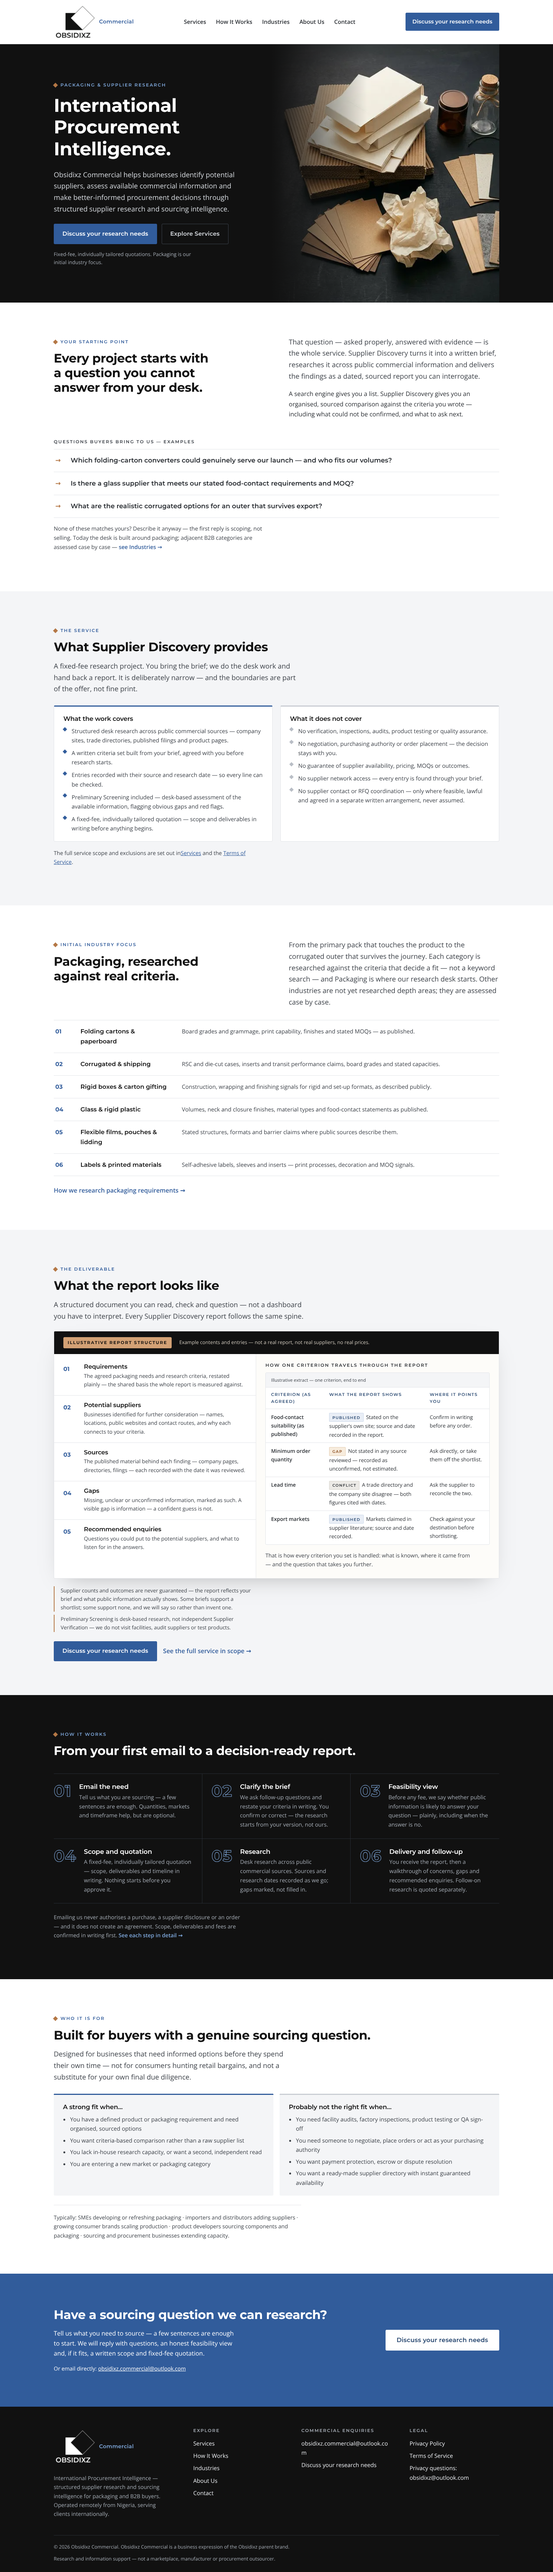
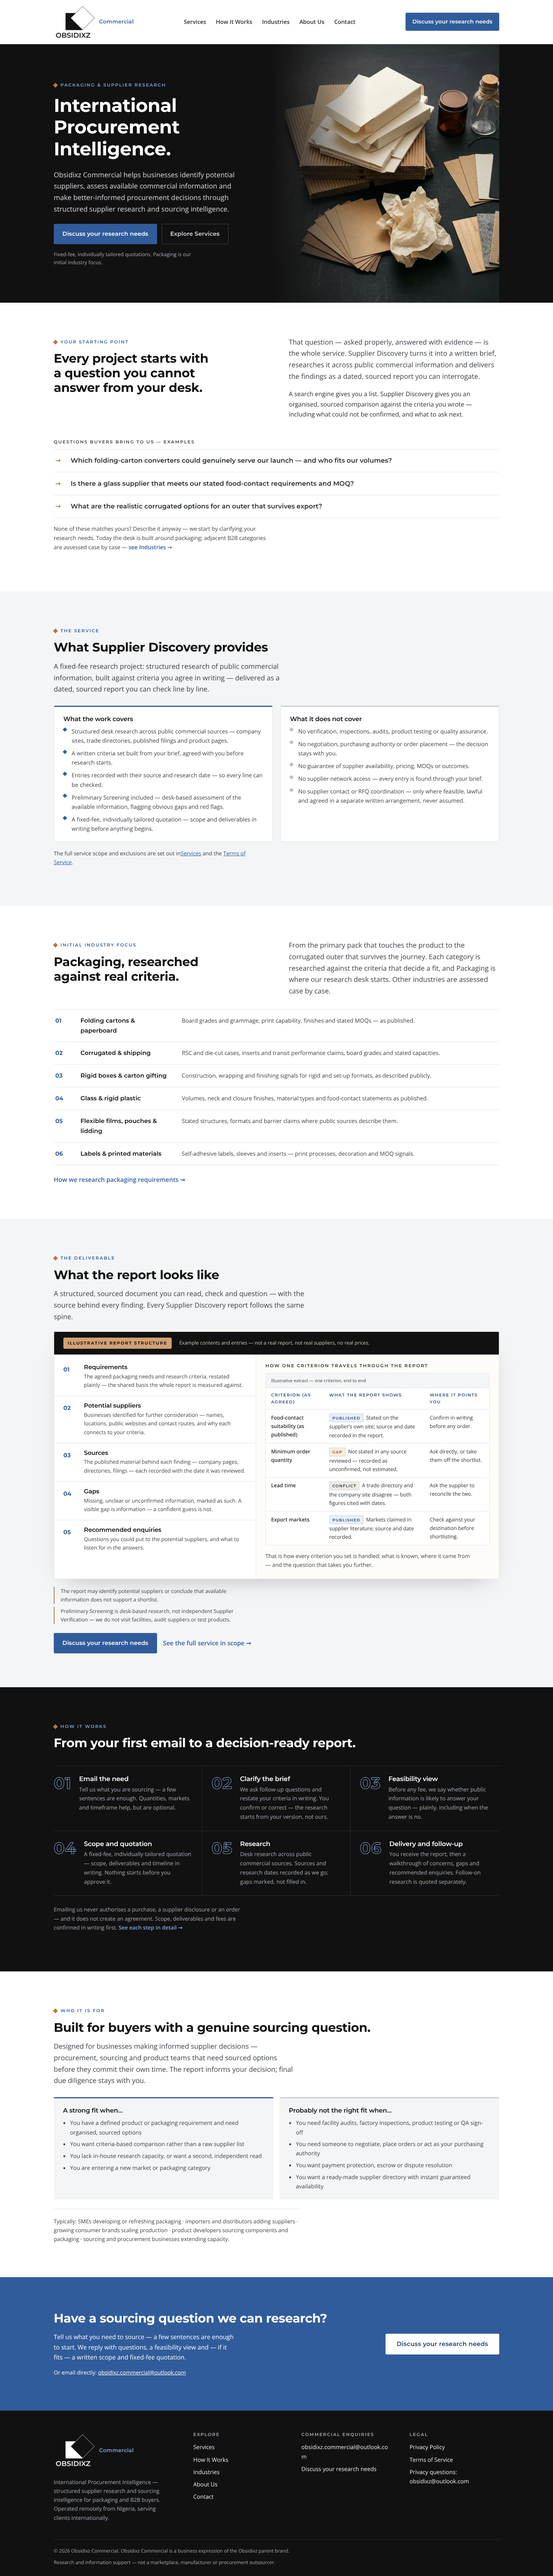
Final cleanup: consolidate defensive copy, finish contact copy, fix caption
Homepage: replace defensive ceremony copy with direct positive statements
(shortlist sentence, 'we start by clarifying your research needs', fixed-fee
scope explanation, sourced-document description, positive audience framing);
limitations remain once each; scope summary and Services/Terms links kept once.

Contact: remove 'emerging service'/'24/7 desk'/'merits' commentary and the
email-delivery preamble; invitation and email instructions consolidated; no
response-time promise; mailto literal, visible address, copy behaviour and
privacy link unchanged (re-verified; no defects found).

Illustrative extract caption now renders full-width with natural wrapping at
320/390 px and desktop (.criteria-table-wrap scroll-margin-top: 8rem). No
forms, integrations, routes, metadata or Terms/Privacy changes.

diff --git a/src/styles/global.css b/src/styles/global.css
@@ -1527,6 +1527,7 @@ a {
 }
 
 .criteria-table-wrap {
+  scroll-margin-top: 8rem;
   overflow-x: auto;
   border: 1px solid var(--line);
   border-radius: var(--radius);
@@ -1541,7 +1542,10 @@ a {
 }
 
 .criteria-table caption {
+  caption-side: top;
   text-align: left;
+  width: 100%;
+  box-sizing: border-box;
   padding: 0.55rem 0.85rem;
   font-size: 0.72rem;
   color: var(--ink);
@@ -1609,7 +1613,7 @@ a {
   border-color: #d8d4cc;
 }
 
-/* Q3 — honesty notes (below the exhibit) */
+/* Q3 — notes below the exhibit */
 .report-notes {
   display: grid;
   gap: 0.5rem;
@@ -1663,6 +1667,13 @@ a {
     min-width: 0;
     display: block;
     font-size: 0.85rem;
+  }
+  .criteria-table caption {
+    display: block;
+    width: 100%;
+    overflow-wrap: break-word;
+    white-space: normal;
+    padding: 0.65rem 0.85rem;
   }
   .criteria-table thead {
     position: absolute;

diff --git a/PROJECT_STATUS.md b/PROJECT_STATUS.md
@@ -1,58 +1,62 @@
 # PROJECT STATUS — Obsidixz Commercial
 
-**Date:** 2026-11-10 · **Branch:** `arena/7c77ed96-obsidixz-commercial` (PR open, not merged) · **Repo:** `Richard-Olasehinde/obsidixz-commercial`
-**Date context:** all dates 2026-11-10 UTC unless stated otherwise.
+**Date:** 2026-11-10 · **Branch:** `arena/00a776ed-obsidixz-commercial` (PR open, not merged) · **Repo:** `Richard-Olasehinde/obsidixz-commercial`
+**Date context:** all dates 2026-11-10 UTC.
 
-## Revision under review
+## Revision under review — final cleanup pass
 
-Buyer-journey redesign of the homepage (see `DECISION_LOG.md` 33–37): the page is
-organised around the buyer's four questions, in order — sourcing question → Supplier
-Discovery scope/boundaries → the report (tangible, labelled *Illustrative report
-structure*) → the discussion-to-report process. The packaging section is structured rows
-with per-category research detail; the notebook/workbench photograph was removed from
-the homepage (retained on /industries). CTAs site-wide now read "Discuss your research
-needs" (discussion, not purchase). Approved scope, palette, Montserrat/Open Sans, logo
-lockup, enquiry subject, mailto literal, copy-button behaviour and routes are unchanged.
+Tightly scoped polish over the merged redesign (PR #3, `5116058`). Preserves the design,
+packaging hero, logo lockup, palette, typography, homepage structure and report
+presentation. Changes (see `DECISION_LOG.md` 38):
+
+- Homepage copy consolidated: defensive/ceremony phrasing removed; limitations retained
+  once each; scope summary kept once with Services/Terms links.
+- Contact page: "emerging service operated by an individual", "24/7 desk", "read and
+  considered on its merits" and delivery/receipt commentary removed; invitation and
+  email instructions consolidated per the brief. No response-time promise introduced.
+- Illustrative extract caption now renders full-width with natural wrapping at 320/390 px
+  (stacked layout) and desktop; `.criteria-table-wrap` got `scroll-margin-top: 8rem`.
+- Copy behaviour re-verified (see status 1); no defects found — no behaviour changes.
+
+Live site currently serves `5116058` (the redesign). **This cleanup is not deployed.**
 
 ## Stage results
 
 | Stage | Status | Evidence |
 |---|---|---|
 | 1. Foundation | **PASS** | Astro 7.3.8, 8 routes + 404, authentic assets, self-hosted fonts (unchanged) |
-| 2. Homepage redesign | **PASS** | Served production build inspected at 1440/390; screenshots in `verification/screenshots/` (after) vs `verification/baseline/` (genuine before, same build at `ae0f6cf`) |
-| 3. Interior pages | **PASS** | CTA wording only; routes build and render; Services/How/Industries/About/Contact/Privacy/Terms copy unchanged in substance |
-| 4. Navigation & contact | **PASS** | Menu isolation/Escape/focus-return; copy success + denial + legacy fallback; no-JS static nav; re-verified this revision |
-| 5. Responsive/a11y polish | **PASS** | 5 widths × 10 routes (incl. expected-404) — no overflow, no console errors, no failed requests, no broken visible images; criteria table stacks on <48rem with labelled cells; 200% root font-size clean |
-| 6. Discoverability | **PASS** | Unique titles/descriptions (home description rewritten for the redesign; contact title updated), canonicals, OG/Twitter, favicon set, sitemap (unchanged) |
-| 7. Rendered verification | **PASS** | Served production build under headless Chromium: `check` 53/53, `interact` 5/5, `nojs` 2/2, `verify` all-pass, `astro check` 0 errors (5 pre-existing hints) |
-| 8. Delivery | **PARTIAL** | HTTPS **independently confirmed working by the founder (2026-11-10)**. Formal live-verification pass on all routes over HTTPS not yet run. Feature branch never deploys; `main` alone deploys after founder merge authorisation |
+| 2. Final-cleanup copy | **PASS** | Homepage + contact rebuilt and inspected at 1440/768/390/320 px; before/after in `verification/baseline-cleanup/` vs `verification/screenshots/` |
+| 3. Interior pages | **PASS** | Copy untouched except contact; routes build and render |
+| 4. Contact behaviour | **PASS** | Clipboard success asserts actual clipboard contents; denial reports failure truthfully; legacy fallback passes; exact subject + mailto literal unchanged; no-JS path intact |
+| 5. Responsive/a11y polish | **PASS** | 5 widths × 10 routes (incl. expected-404) — no overflow, no console errors, no failed requests, no broken visible images; caption verified 320/390/1440; 200% root font-size clean |
+| 6. Discoverability | **PASS** | Titles/descriptions/canonicals/OG/sitemap unchanged (no metadata drift) |
+| 7. Rendered verification | **PASS** | Served production build under headless Chromium: `check` 53/53, `interact` 5/5 (incl. clipboard assertions), `nojs` 2/2, `verify` all-pass, `astro check` 0 errors (5 pre-existing hints) |
+| 8. Delivery | **LIVE (redesign) / NOT DEPLOYED (cleanup)** | Redesign deployed from `main` via PR #3 merge; HTTPS independently confirmed working by the founder (2026-11-10). This cleanup reaches `main` only after founder review and merge authorisation |
 
 ## Required delivery statuses
 
-1. **Code implementation & tests run — DONE.** `npm run build` ✓, `npm run check`
-   (0 errors) ✓, `npm run verify` ✓, rendered sweep 53/53 ✓, interaction suite ✓,
-   no-JS suite ✓, 200% root font-size pass ✓, screenshots refreshed ✓. Not run:
-   Lighthouse/axe (not available in this environment).
+1. **Code implementation & tests run — DONE.** Build ✓, `astro check` 0 errors ✓,
+   `npm run verify` ✓, rendered sweep 53/53 ✓, interaction suite (clipboard success with
+   content assertion, denial, legacy fallback, menu isolation/Escape/focus-return) ✓,
+   no-JS ✓, 200% root font-size ✓, screenshots refreshed (incl. new 320/390 caption
+   shots) ✓. Not run: Lighthouse/axe (not available in this environment).
 2. **Visual acceptance — PASS, founder review pending.** Evidence:
-   `verification/screenshots/` (after, this revision) vs `verification/baseline/`
-   (before, same build at `ae0f6cf`): desktop full page, mobile full page, hero/header,
-   packaging rows, report exhibit (desktop + mobile), services, how-it-works, contact
-   (1440/390), expanded mobile menu. No founder approval has been given or implied.
-3. **Deployment & domain verification — HTTPS CONFIRMED WORKING (founder-confirmed
-   2026-11-10).** The founder reports the HTTPS destination independently confirmed
-   working on 10 November 2026. This session did not re-verify the live domain; the
-   record is the founder's report. A full live HTTPS pass (routes, assets, canonicals,
-   headers) remains worthwhile after merge and is recorded as outstanding here until run.
-   The redesign itself is **not deployed**: pushes from this branch run CI but never
-   deploy; `main` deploys only after the founder merges.
+   `verification/screenshots/` (after) vs `verification/baseline-cleanup/` (before, build
+   at `5116058`): homepage full page (desktop/mobile), illustrative extract caption (320/
+   390/1440), contact panels (email instructions + invitation). No founder approval has
+   been given or implied.
+3. **Deployment & domain verification — LIVE.** The redesign is served from `main`
+   (`5116058`); HTTPS **independently confirmed working by the founder 2026-11-10**.
+   A live HTTPS verification pass on all routes remains worthwhile after this cleanup
+   merges; record results here. This cleanup's merge path: founder merge → `main`
+   workflow deploys → live verification.
 4. **Commercial email receipt/reply — NOT DONE.** A real message to and reply from
    `obsidixz.commercial@outlook.com` has not been evidenced. Do not cite mailto as proof.
 
 ## Outstanding items (owner)
 
-- Founder: review the PR preview (before/after screenshots in the PR), then merge or
-  request changes. Merge = the only publish path (`main`-gated workflow).
+- Founder: review the cleanup PR (screenshots embedded) and merge or request changes.
 - Founder/tester: send a real enquiry; record receipt and reply here.
-- Founder: run or authorise the live HTTPS verification pass post-merge (routes, sitemap,
-  sitemap-index.xml, robots.txt, canonicals) and record results here.
-- Founder: visual/brand sign-off on the redesigned homepage.
+- Founder (or any session post-merge): live HTTPS verification pass (routes, sitemap,
+  canonicals) and record results here.
+- Founder: visual/brand sign-off.

diff --git a/CONTINUATION.md b/CONTINUATION.md
@@ -4,19 +4,18 @@ _Pick-up guide. Read this first if the session is lost._
 
 ## State in one line
 
-Buyer-journey homepage redesign (question → Supplier Discovery scope → tangible
-illustrative report → discussion-to-report process; CTAs site-wide read "Discuss your
-research needs") on branch `arena/7c77ed96-obsidixz-commercial`, open as a PR against
-`main`. **Not merged, not deployed — the preview the founder reviews is this branch's
-served production build (or the CI `dist` artifact); `main` alone deploys.** HTTPS was
-independently confirmed working by the founder on 2026-11-10 (record is the founder's
-report, not a sandbox re-verification). Commercial email receipt/reply remains
-unevidenced. Visual/brand sign-off pending.
+Final cleanup pass on top of the merged redesign (PR #3 merged as `5116058`; live site
+serves it; HTTPS independently confirmed working by the founder 2026-11-10). Branch
+`arena/00a776ed-obsidixz-commercial` carries the cleanup PR against `main`: homepage/contact
+copy consolidation, illustrative-extract caption fix (full-width, natural wrap at
+320/390px) and copy-behaviour re-verification. **Not merged, not deployed — `main` alone
+deploys after founder review and merge authorisation.** Commercial email receipt/reply
+remains unevidenced. Visual/brand sign-off pending.
 
 ## Repo & branch
 
 - Remote: `https://github.com/Richard-Olasehinde/obsidixz-commercial.git`
-- Working branch: `arena/7c77ed96-obsidixz-commercial` (do not rename; Arena tracks sessions by branch)
+- Working branch: `arena/00a776ed-obsidixz-commercial` (do not rename; Arena tracks sessions by branch)
 - Reproduce locally:
 
 ```bash
@@ -35,10 +34,10 @@ npm run preview
 | `npm run build` | Astro static build → `dist/` (9 pages) | PASS |
 | `npm run check` | `@astrojs/check` type/content | PASS, 0 errors (5 pre-existing hints) |
 | `npm run verify` | Parse-based checks on `dist/` | PASS |
-| `npm run test:render` | served `dist/`: 5 widths × 10 routes + 200% root font-size | PASS (53/53) |
+| | `npm run test:render` | served `dist/`: 5 widths × 10 routes + 200% root font-size | PASS (53/53) |
 | `node scripts/rendered-checks.mjs interact` | menu open/Escape/focus-return/isolation/resize; copy success + denial + legacy fallback | PASS (5/5) |
 | `node scripts/rendered-checks.mjs nojs` | JS disabled: static nav, exact mailto, no dialog semantics | PASS (2/2) |
-| `node scripts/rendered-checks.mjs shots` | screenshot set → `verification/screenshots/` (incl. new `home-packaging-rows`, `home-report-exhibit`; `home-lower-editorial` renamed) | captured |
+| `node scripts/rendered-checks.mjs shots` | screenshot set → `verification/screenshots/` (incl. `home-packaging-rows`, `home-report-exhibit`, `home-report-caption-320x700`, `home-report-caption-390x844`) | captured |
 
 Browser checks need the preview running (`npm run preview`, or `npx astro preview
 --port 4321`), or set `BASE_URL`. All browser-test dependencies are declared
@@ -79,11 +78,12 @@ report stale results — rebuild (`npm run build`) before trusting any served-pa
 
 ## Evidence
 
-`verification/screenshots/` — refreshed this revision (desktop hero/header, full desktop
-page, packaging rows, report exhibit, mobile full page, menu, services, how-it-works,
-contact). `verification/baseline/` — genuine before-renders captured from the served
-build at `ae0f6cf` before any edits (desktop hero/header, full desktop, mobile full page,
-lower-editorial section, report-panel close-up).
+`verification/screenshots/` — refreshed this revision (hero/header, full desktop page,
+packaging rows, report exhibit, illustrative-extract caption at 320/390 px, contact
+panels, mobile full page, menu, services, how-it-works, contact).
+`verification/baseline/` — before-renders for the homepage redesign (build at `ae0f6cf`).
+`verification/baseline-cleanup/` — before-renders for this cleanup (build at `5116058`):
+caption at 320/390/1440, contact panels, homepage full page (desktop/mobile).
 
 ## Recovery instructions
 
@@ -99,8 +99,8 @@ lower-editorial section, report-panel close-up).
 
 ## Remaining work, in order
 
-1. Founder: review the PR (screenshots before/after inside it); request changes or
-   authorise merge. Merge is the only publish path (deploy gated to `main`).
+1. Founder: review the cleanup PR (screenshots before/after inside it); request changes
+   or authorise merge. Merge is the only publish path (deploy gated to `main`).
 2. Founder/tester: send a real enquiry to `obsidixz.commercial@outlook.com`; confirm
    receipt and a reply from that account; record both in `PROJECT_STATUS.md`.
 3. Founder or any session post-merge: run the live HTTPS verification pass (all 8 routes

diff --git a/DECISION_LOG.md b/DECISION_LOG.md
@@ -205,3 +205,33 @@ All decisions 2026-11-09 unless dated.
     (no overflow/console errors/failed requests/broken images), interaction suite
     (menu isolation/Escape/focus-return, clipboard success/denial/legacy fallback),
     no-JS suite — all PASS; Lighthouse/axe still not run (not available here).
+
+38. **Final cleanup pass (2026-11-10, fifth pass) — defensive copy consolidated; contact
+    invitation simplified; illustrative caption fixed; copy behaviour verified.** Homepage:
+    "Some briefs support a shortlist; some support none, and we will say so rather than
+    invent one" → "The report may identify potential suppliers or conclude that available
+    information does not support a shortlist."; "the first reply is scoping, not selling"
+    → "we start by clarifying your research needs."; "It is deliberately narrow — and the
+    boundaries are part of the offer, not fine print" → a direct fixed-fee explanation of
+    the research and report; "not a dashboard you have to interpret" → a positive sourced
+    document description; "not for consumers hunting retail bargains" removed — the
+    audience is described positively and the due-diligence caveat is kept; "an honest
+    feasibility view" → "a feasibility view"; the search-engine aside in the packaging
+    lede removed. One concise scope summary and the Services/Terms links remain; material
+    limitations remain once each (scope panels, report notes, process note). Contact page:
+    "an emerging service operated by an individual", "24/7 desk", and "read and considered
+    on its merits" removed → "Questions about scope, quotations, industries or the
+    research process are welcome. Email us to discuss what you need."; the two email
+    preamble paragraphs consolidated to one; delivery/receipt commentary removed; no
+    response-time promise introduced; mailto literal, visible selectable address, email
+    action, manual fallback and privacy link unchanged. Illustrative extract caption now
+    renders full-width in the stacked (<48rem) layout (display:block; width:100%) and in
+    the desktop bar (width:100%; caption-side:top); `.criteria-table-wrap` carries
+    scroll-margin-top:8rem so scroll/fragment targeting lands it below the sticky header;
+    verified at 320/390/1440 px with no horizontal overflow. Rendered-checks extended
+    with 320px and 390px caption shots and a `block` option for the screenshot helper —
+    nothing weakened; verify.mjs assertions unchanged. Copy behaviour itself was
+    re-verified rather than rewritten: the clipboard success path asserts the clipboard
+    actually contains `obsidixz.commercial@outlook.com`, the denial path reports failure
+    truthfully (isError), and the legacy fallback passes — no defects found, no
+    behaviour changes made.

diff --git a/PROJECT_STRUCTURE.md b/PROJECT_STRUCTURE.md
@@ -69,18 +69,30 @@
    │  ├─ home-desktop-full-1440.png
    │  ├─ home-packaging-rows-1440x900.png   # replaces home-lower-editorial (renamed)
    │  ├─ home-report-exhibit-1440x900.png
+   │  ├─ home-report-caption-320x700.png
+   │  ├─ home-report-caption-390x844.png
    │  ├─ home-mobile-390x844.png
    │  ├─ mobile-menu-expanded-390x844.png
    │  ├─ services-desktop-1440x900.png
    │  ├─ how-it-works-desktop-1440x900.png
    │  ├─ contact-desktop-1440x900.png
-   │  └─ contact-mobile-390x844.png
-   └─ baseline/                # genuine before-renders (build at ae0f6cf, captured pre-edit)
-      ├─ home-desktop-header-hero-1440x900.png
-      ├─ home-desktop-full-1440.png
-      ├─ home-lower-editorial-1440x900.png
-      ├─ home-mobile-390x844.png
-      ├─ home-report-before-1440x900.png
+   │  ├─ contact-mobile-390x844.png
+   │  ├─ contact-email-panel-after-1440x900.png
+   │  └─ contact-questions-panel-after-1440x900.png
+   ├─ baseline/                # redesign before-renders (build at ae0f6cf, captured pre-edit)
+   │  ├─ home-desktop-header-hero-1440x900.png
+   │  ├─ home-desktop-full-1440.png
+   │  ├─ home-lower-editorial-1440x900.png
+   │  ├─ home-mobile-390x844.png
+   │  └─ home-report-before-1440x900.png
+   └─ baseline-cleanup/        # cleanup before-renders (build at 5116058, pre-edit)
+      ├─ home-report-caption-before-320x700.png
+      ├─ home-report-caption-before-390x844.png
+      ├─ home-report-caption-before-1440x900.png
+      ├─ contact-email-panel-before-1440x900.png
+      ├─ contact-questions-panel-before-1440x900.png
+      ├─ home-desktop-full-before.png
+      └─ home-mobile-full-before.png
 ```
 
 ## Rendered output (dist/)

diff --git a/README.md b/README.md
@@ -66,7 +66,7 @@ sandbox NSPR/NSS procedure.
 - 200% root font-size pass (text-size simulation, not browser zoom) ✓
 - Interaction suite (menu isolation/focus return, copy success/denial/fallback) ✓ · no-JS suite ✓
 - Browser screenshots in `verification/screenshots/` (identified in `PROJECT_STATUS.md`);
-  genuine before-renders for the homepage redesign live in `verification/baseline/`
+  before-renders live in `verification/baseline/` (redesign) and `verification/baseline-cleanup/` (final cleanup)
 
 ## Licence & use
 
